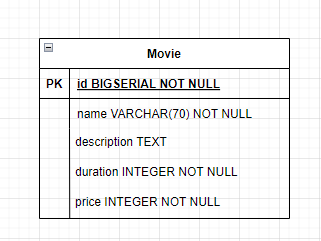
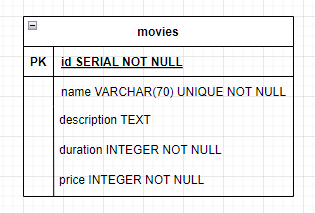
change BIGSERIAL to SERIAL && fix diagram

Changed region(s): [[0.0571, 0.0563, 0.9429, 0.9296]]

diff --git a/src/logic.ts b/src/logic.ts
@@ -14,7 +14,7 @@ export async function readAllMovies (request: Request, response: Response){
         SELECT
             *
         FROM
-            movies_table mt
+            movies
         ORDER BY
             %I %s
         OFFSET
@@ -68,7 +68,7 @@ export async function createMovie (request: Request, response: Response){
 
     const formatString: string = format(`
         INSERT INTO
-            movies_table (%I)
+            movies (%I)
         VALUES 
             (%L)
         RETURNING
@@ -90,7 +90,7 @@ export function readMovieById (request: Request, response: Response): Response{
 export async function deleteMovieById (request: Request, response: Response): Promise<Response>{
     const queryString: string = `
         DELETE FROM
-            movies_table
+            movies
         WHERE
             id = $1
     `
@@ -106,7 +106,7 @@ export async function deleteMovieById (request: Request, response: Response): Pr
 
 export async function updateMovieById (request: Request, response: Response): Promise<Response>{
     const queryString: string = format(`
-        UPDATE movies_table
+        UPDATE movies
         SET
             (%I) = ROW (%L)
         WHERE

diff --git a/src/middleware.ts b/src/middleware.ts
@@ -13,7 +13,7 @@ export async function checkMovieByName (request: Request, response: Response, ne
         SELECT 
             *
         FROM
-            movies_table
+            movies
         WHERE
             LOWER(name) = $1
     `
@@ -37,7 +37,7 @@ export async function checkMovieById (request: Request, response: Response, next
         SELECT
             *
         FROM
-            movies_table
+            movies
         WHERE
             id = $1
     `
